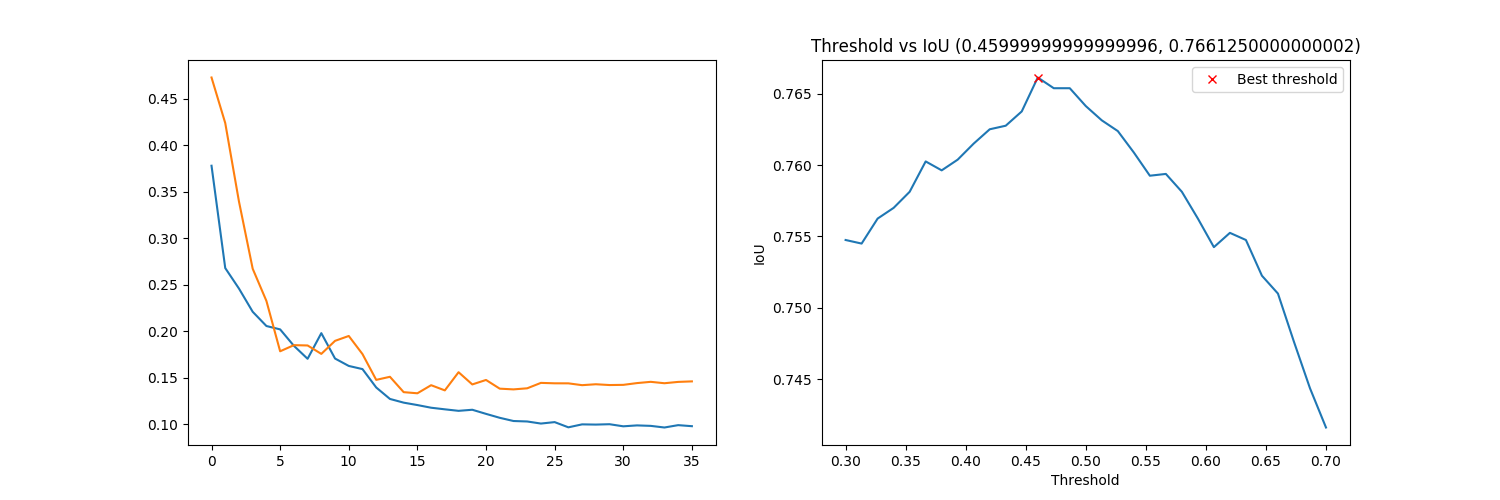
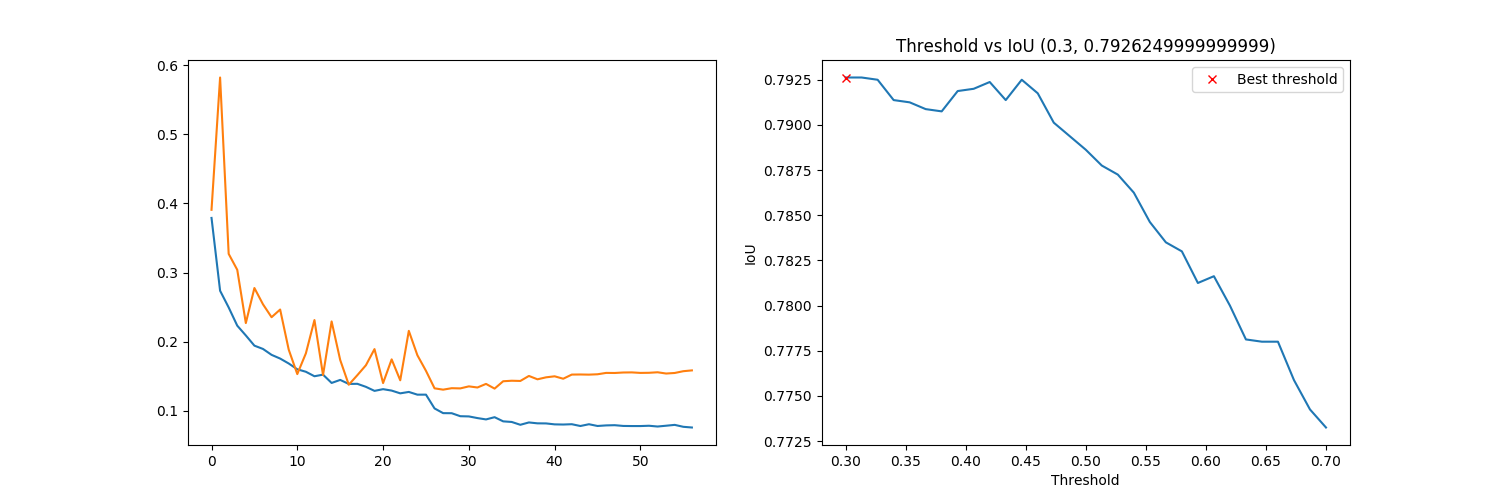
#4 seed fixの試み（失敗）

diff --git a/src/U-net_with_simple_Resnet_Blocks.py b/src/U-net_with_simple_Resnet_Blocks.py
@@ -32,9 +32,26 @@ from keras.layers.merge import concatenate
 from keras.callbacks import EarlyStopping, ModelCheckpoint, ReduceLROnPlateau
 from keras import backend as K
 
+from keras.preprocessing.image import ImageDataGenerator, array_to_img, img_to_array, load_img
+
+"""
+seed fixするため追加した処理
+参考: https://qiita.com/okotaku/items/8d682a11d8f2370684c9
+"""
+
+import random as rn
 import tensorflow as tf
 
-from keras.preprocessing.image import ImageDataGenerator, array_to_img, img_to_array, load_img
+os.environ['PYTHONHASHSEED'] = '0'
+np.random.seed(7)
+rn.seed(7)
+
+session_conf = tf.ConfigProto(intra_op_parallelism_threads=1,
+                              inter_op_parallelism_threads=1)
+
+tf.set_random_seed(7)
+sess = tf.Session(graph=tf.get_default_graph(), config=session_conf)
+K.set_session(sess)
 
 warnings.simplefilter(action='ignore', category=FutureWarning)
 
@@ -125,7 +142,6 @@ def build_model(input_layer, start_neurons, DropoutRatio = 0.5):
     uconv4 = Activation(ACTIVATION)(uconv4)
 
     # 12 -> 25
-    #deconv3 = Conv2DTranspose(start_neurons * 4, (3, 3), strides=(2, 2), padding="same")(uconv4)
     deconv3 = Conv2DTranspose(start_neurons * 4, (3, 3), strides=(2, 2), padding="valid")(uconv4)
     uconv3 = concatenate([deconv3, conv3])
     uconv3 = Dropout(DropoutRatio)(uconv3)
@@ -146,7 +162,6 @@ def build_model(input_layer, start_neurons, DropoutRatio = 0.5):
     uconv2 = Activation(ACTIVATION)(uconv2)
 
     # 50 -> 101
-    #deconv1 = Conv2DTranspose(start_neurons * 1, (3, 3), strides=(2, 2), padding="same")(uconv2)
     deconv1 = Conv2DTranspose(start_neurons * 1, (3, 3), strides=(2, 2), padding="valid")(uconv2)
     uconv1 = concatenate([deconv1, conv1])
 
